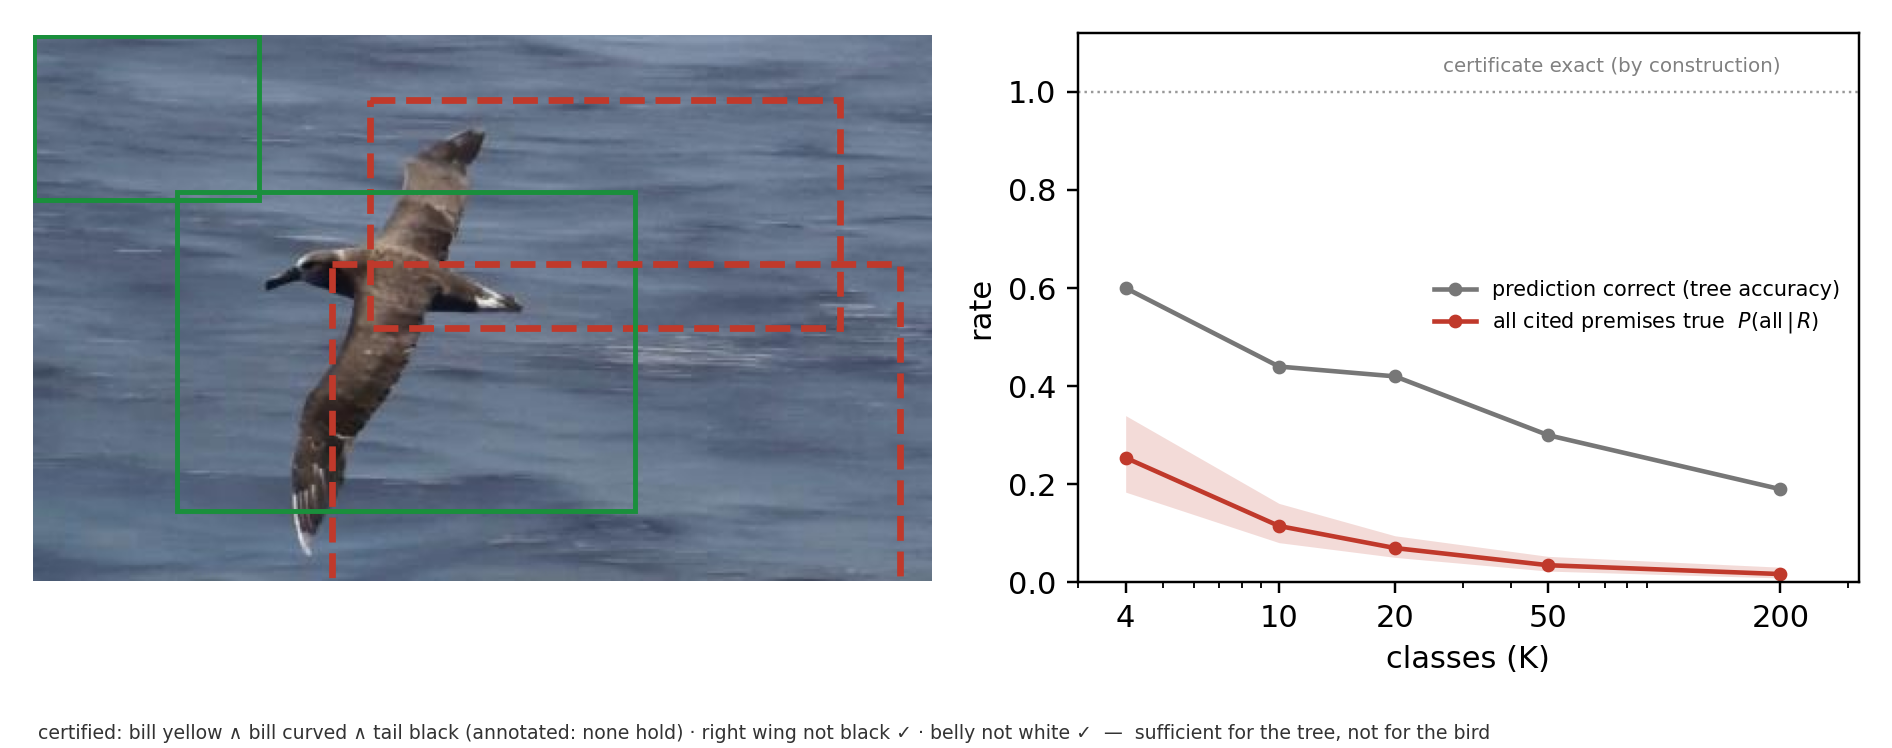
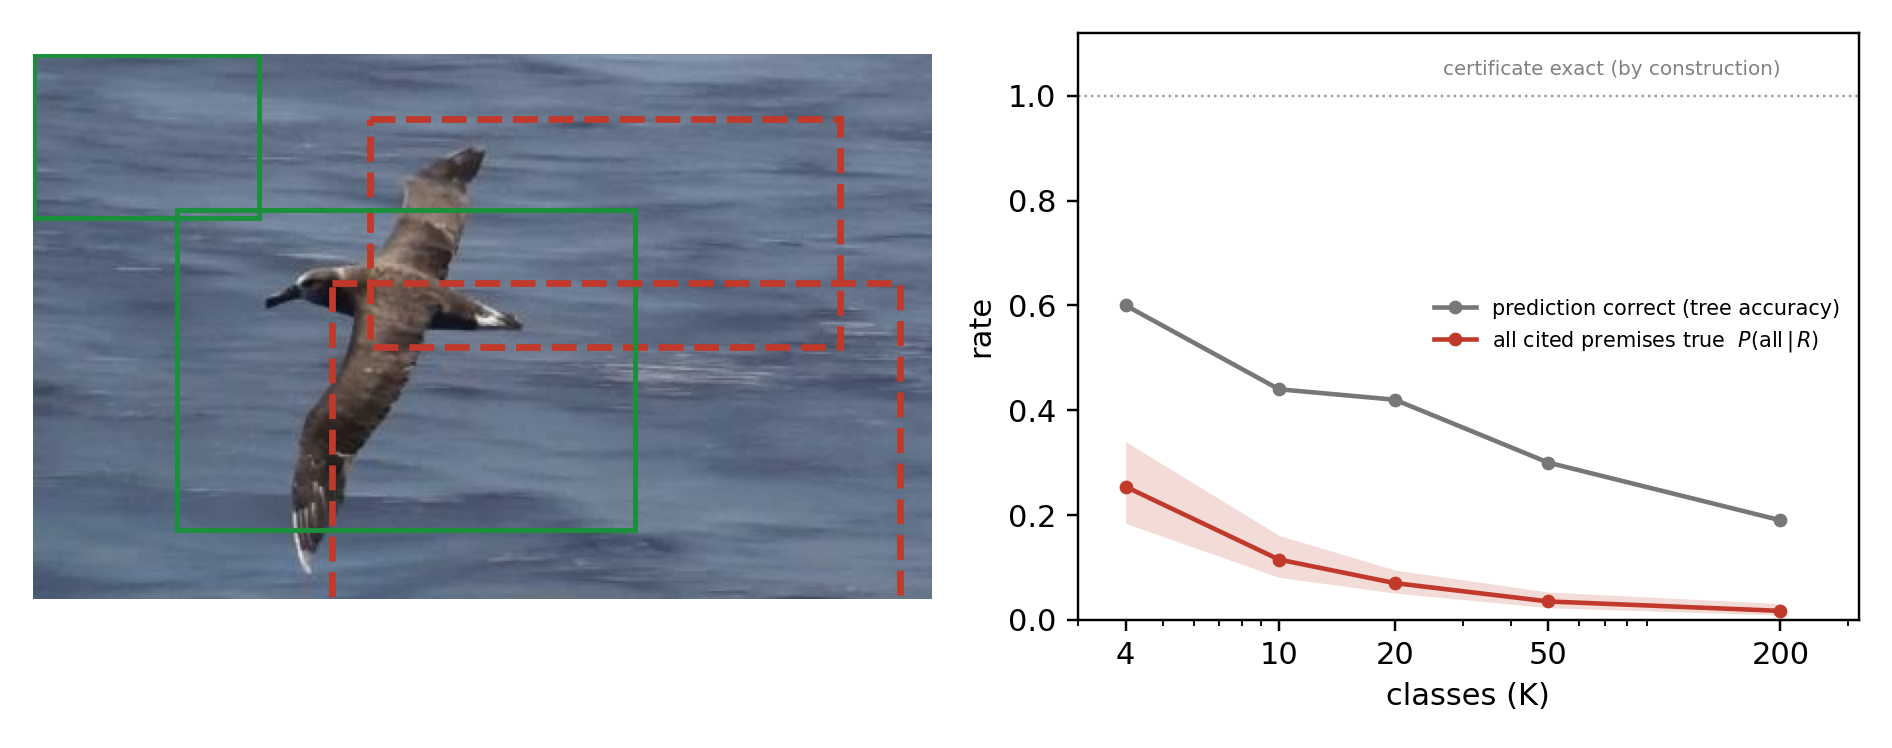
docs(wiki): Figure 1 (fig:gap) captioned in intro - certified reason line moved from figure pixels to LaTeX caption; fig1_gap regenerated clean (no on-image labels/titles/footnote)

diff --git a/grounded_vision/scripts/plot_fig1_gap.py b/grounded_vision/scripts/plot_fig1_gap.py
@@ -120,11 +120,7 @@ def main():
     ax.set_ylim(0, 1.12)
     ax.legend(frameon=False, fontsize=6.8, loc="center right")
 
-    foot = ("certified: bill yellow \u2227 bill curved \u2227 tail black "
-            "(annotated: none hold) \u00b7 right wing not black \u2713 \u00b7 "
-            "belly not white \u2713  \u2014  sufficient for the tree, not for the bird")
-    fig.text(0.02, 0.012, foot, fontsize=6.2, color="#333")
-    fig.tight_layout(rect=(0, 0.05, 1, 1))
+    fig.tight_layout()
     os.makedirs(os.path.dirname(args.out), exist_ok=True)
     for ext in ("png", "pdf"):
         fig.savefig(f"{args.out}.{ext}", dpi=220)

diff --git a/docs/wiki/PAPER_INTRO_DRAFT.md b/docs/wiki/PAPER_INTRO_DRAFT.md
@@ -67,6 +67,26 @@ further datasets with per-image concept ground truth---CelebA face
 attributes and the BDD-OIA driving-action benchmark---keeping the ladder
 and the audit fixed while the domain, features, and task type vary.
 
+\begin{figure}[t]
+\centering
+\includegraphics[width=\linewidth]{fig1_gap.pdf}
+\caption{\textbf{A sufficient-reason certificate is exact, yet its
+premises are all true of the image in $25\%$ of cases at four classes
+and $1.7\%$ at two hundred---always below the accuracy of the
+prediction it certifies.} \textbf{(a)}~A correctly classified
+Black-footed Albatross; the certified reason reads \emph{bill yellow
+$\wedge$ bill curved $\wedge$ tail black} (annotated: none hold; red
+dashed boxes) $\cdot$ \emph{right wing not black} $\checkmark$
+$\cdot$ \emph{belly not white} $\checkmark$ (green boxes)---sufficient
+for the tree, not for the bird, and typical: most audited four-class
+reasons fail while the prediction is right. \textbf{(b)}~Prediction
+accuracy vs.\ all-cited-premises-true across the class sweep (Wilson
+$95\%$ bands; $n$ at each point); the dotted line marks certificate
+exactness, which holds by construction. Artefact:
+\texttt{results/figures/fig1\_gap.pdf}.}
+\label{fig:gap}
+\end{figure}
+
 Four findings survive the full audit---across both heads, three scales,
 and three datasets.
 \textbf{Premise support is the binding constraint, and it collapses
@@ -211,3 +231,9 @@ Intro now carries **zero numerals in rendered text**, matching the abstract's co
 ## Changelog 2026-11-14 — v4: survival voice (user steer: "I don't want an audit paper — I want to know what survives"), grounded in the three executed runs
 
 Still fully number-free (digits only in LaTeX comments / bib keys; number words as in v3). Changes: ¶2 closer reframed as the survival question (which claims hold by construction / with measurable probability / how fast the measured ones die / what restores them) — matches §3 v3's roadmap. Setup ¶ gains the pre-registration clause ("any candidate rescue is judged against success criteria fixed before the runs"). Finding 2 gains the executed re-draws sentence (concentration recurs, carrier slot does not — number-free). Finding 3 gains the repair-bar sentence (clears at intermediate class counts, marginal at the full benchmark, some operating points only) and the selection-vs-support distinction (forcing accepts exactly the ranking gate's instances) — both grounded in `task1_*` / `task3_forcing_sweep.json`. Findings 1 and 4, the contribution bullets (still mirroring the locked §9 abstract verbatim), and the scope paragraph unchanged. Flags 1–2 RESOLVED with artifacts; artifact map gains three rows. NOTE: bullets say "claim ladder" (abstract's words); §3.3 is titled "survival ladder" for the same object — unify at .tex assembly (either retitle §3.3 or edit the abstract if the portal allows).
+
+---
+
+## Changelog 2026-11-14 (later) — Figure 1 added (fig:gap), figure pixels de-cluttered
+
+User requests: remove on-image labels → remove titles → figure kept clean; the certified content moves into the CAPTION. The intro now carries the `figure` environment after the setup paragraph: caption sentence 1 = the gap in numbers (25% → 1.7%, always below accuracy), (a) = the sid-44 albatross example WITH the certified line verbatim ("bill yellow ∧ bill curved ∧ tail black (annotated: none hold) · right wing not black ✓ · belly not white ✓ — sufficient for the tree, not for the bird, and typical"), (b) = proved-vs-survives curve with Wilson bands. NOTE: the intro PROSE stays number-free (user rule); the caption is body matter and carries numbers by design (same split as abstract-vs-body). fig1_gap.pdf regenerated without on-image labels, titles, and footnote (script `scripts/plot_fig1_gap.py`; artifact committed). \ref{fig:gap} not yet cited in prose — add "Figure~\ref{fig:gap}" at the finding-1 sentence at .tex assembly (kept out of the intro prose now to preserve the number-free pass).
